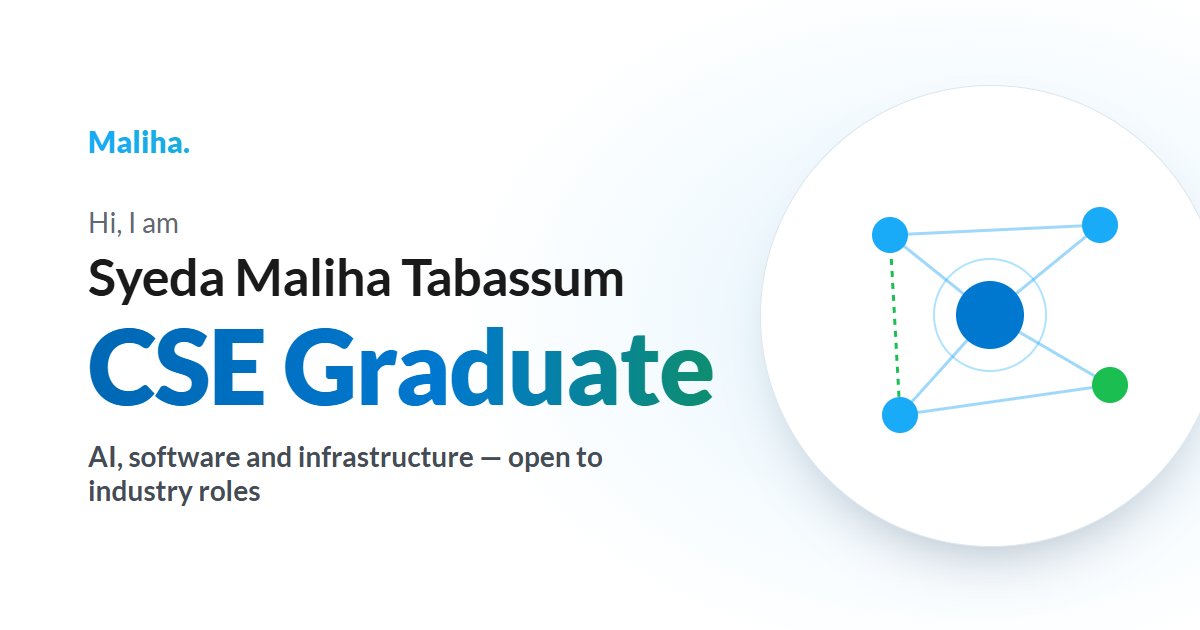
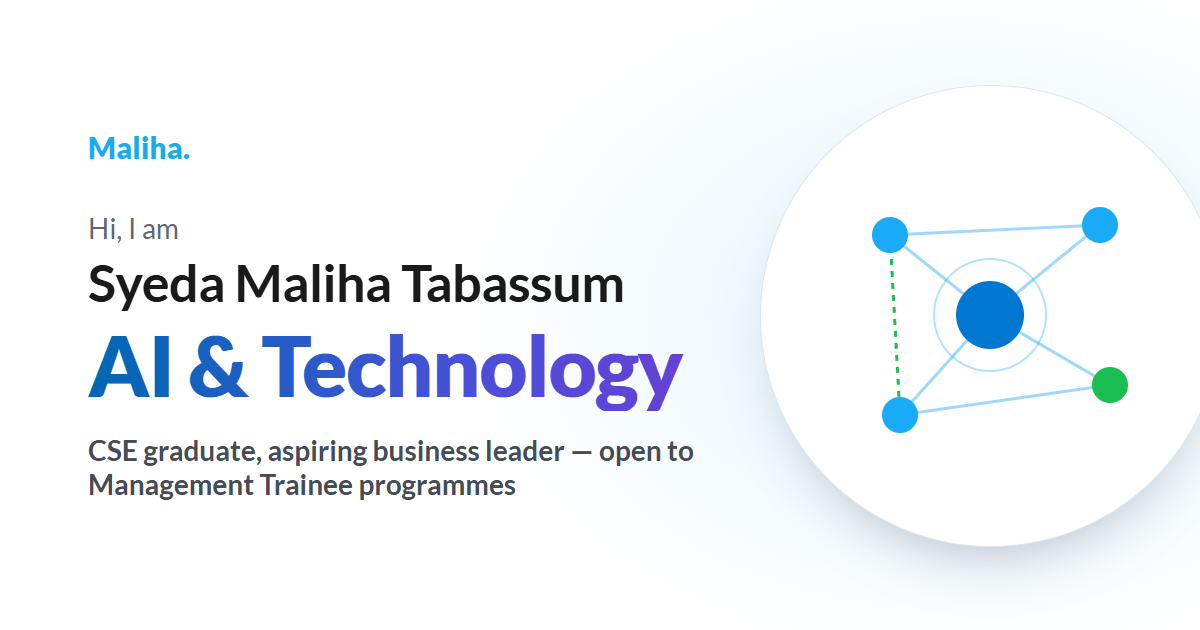
Social image: AI & Technology, Management Trainee

diff --git a/scripts/social-card.html b/scripts/social-card.html
@@ -24,8 +24,8 @@
       .logo { font-weight: 900; font-size: 30px; background: linear-gradient(90deg, #19aaf8, #1abe51); -webkit-background-clip: text; color: transparent; }
       .hi { margin: 46px 0 6px; font-size: 28px; color: #5f6874; }
       h1 { margin: 0; font-size: 52px; font-weight: 700; letter-spacing: -0.01em; }
-      .role { margin: 6px 0 22px; font-size: 104px; font-weight: 900; line-height: 1; letter-spacing: -0.02em;
-        background: linear-gradient(90deg, #0068b4, #0078cf 55%, #0f8f6a); -webkit-background-clip: text; color: transparent; }
+      .role { margin: 6px 0 22px; font-size: 84px; font-weight: 900; line-height: 1.1; white-space: nowrap; letter-spacing: -0.02em;
+        background: linear-gradient(90deg, #0068b4, #4b4fd8 60%, #6a3fd1); -webkit-background-clip: text; color: transparent; }
       p { margin: 0; font-size: 28px; font-weight: 700; color: #454c55; max-width: 22em; }
       .art { position: relative; width: 470px; height: 630px; }
       .disc { position: absolute; left: 30px; top: 85px; width: 460px; height: 460px; border-radius: 50%; background: #ffffff; border: 1px solid #dde6ee; box-shadow: 0 30px 60px -30px rgb(15 40 70 / .35); }
@@ -37,8 +37,8 @@
       <div class="logo">Maliha.</div>
       <div class="hi">Hi, I am</div>
       <h1>Syeda Maliha Tabassum</h1>
-      <div class="role">CSE Graduate</div>
-      <p>AI, software and infrastructure — open to industry roles</p>
+      <div class="role">AI &amp; Technology</div>
+      <p>CSE graduate, aspiring business leader — open to Management Trainee programmes</p>
     </div>
     <div class="art" aria-hidden="true">
       <div class="disc"></div>
